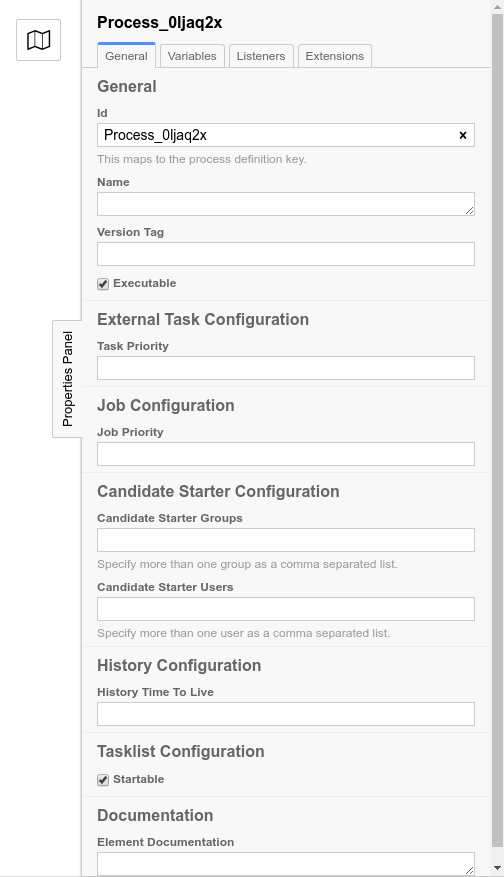
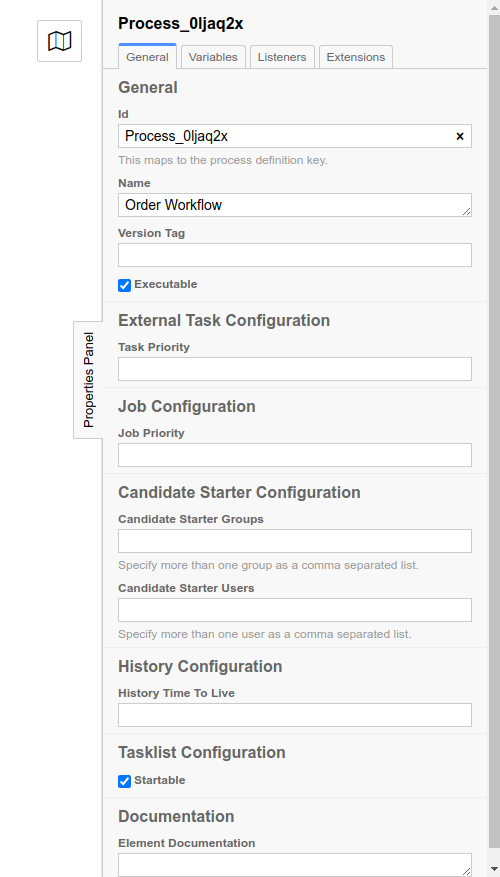
add name to Property Panel

diff --git a/user-test/part1/tree/tree.js b/user-test/part1/tree/tree.js
@@ -4,6 +4,7 @@ import { applyCss, createElement } from "../shared/util/util.js";
 const template = `
 <ul class="nested active">
   <li class="expand">
+    <span class="caret" style="display: none"></span>
     <span class="open" process="0">Order Workflow</span>
     <ul class="nested active">
       <li class="expand">
@@ -73,7 +74,6 @@ const style = {
   left: '125px',
   border: '1px solid black',
   paddingLeft: '30px',
-  minWidth: "300px",
   maxWidth: "300px",
   maxHeight: "500px",
   overflow: "auto",

diff --git a/user-test/part1/index.html b/user-test/part1/index.html
@@ -14,7 +14,7 @@
 <style>
   iframe {
     border: 0;
-    width: calc(100% - 510px);
+    width: calc(100% - 505px);
     height: calc(100% - 100px);
     overflow: hidden;
   }
